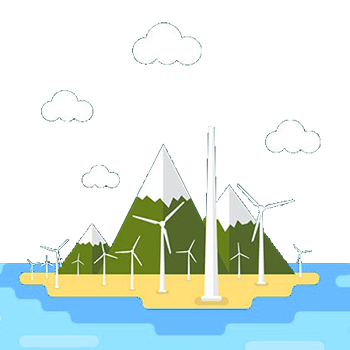
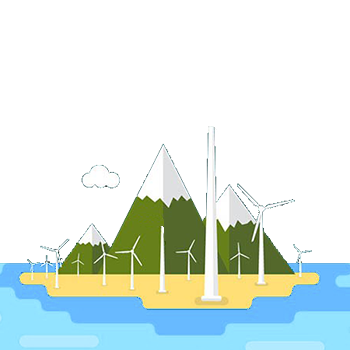
Praise the Sun!

diff --git a/css/main.css b/css/main.css
@@ -452,7 +452,7 @@
 			transform: translate3d(0,1em,0);
 			opacity: 0;
 		}
-
+		
 		100% {
 			-moz-transform: translate3d(0,0,0);
 			-webkit-transform: translate3d(0,0,0);
@@ -509,7 +509,7 @@
 		vertical-align: middle;
 		text-align: left;
 		width: 5.35em;
-		z-index: 1;
+		z-index: 10;
 		}
 
 			#naver li {
@@ -726,9 +726,11 @@
 			display: inline-block;
 			text-align: left;
 			position: relative;
+			z-index: 3;
 		}
 			.article-container p{
 				font-weight: 400;
+				z-index: 3;
 			}
 			.article-container a{
 				border: none;
@@ -764,16 +766,31 @@
 				left: 0px;
 				top: 0px;
 				border-radius:5%;
-				z-index: -10;
+				z-index: 1;
 			}
 			.img-outset{
 				width: 170px;
 				height: 170px;
 				opacity: 0.8;
 				position: absolute;
-				left: 36%;
-				top: 10%;
-				z-index: 10;
+				z-index: 2;
+			}
+			.img-cloud{
+				position: absolute;
+				z-index: 1;
+				opacity: 0.7;
+			}
+			.cloudy{
+				-moz-animation: cloud 10s ease-in-out infinite;
+				-webkit-animation: cloud 10s ease-in-out infinite;
+				-ms-animation: cloud 10s ease-in-out infinite;
+				animation: cloud 10s ease-in-out infinite;
+			}
+			.cloudya{
+				-moz-animation: cloud 8s linear infinite reverse;
+				-webkit-animation: cloud 8s linear infinite reverse;
+				-ms-animation: cloud 8s linear infinite reverse;
+				animation: cloud 8s linear infinite reverse;
 			}
 	.demo-cabinet{
 		padding-top: 3em;
@@ -815,6 +832,97 @@
 			 	opacity: 0.3;
 			 }
 
+	@-moz-keyframes cloud {
+		0% {
+			-moz-transform: translate3d(-1em,0,0);
+			-webkit-transform: translate3d(-1em,0,0);
+			-ms-transform: translate3d(-1em,0,0);
+			transform: translate3d(-1em,0,0);
+		}
+		
+		50% {
+			-moz-transform: translate3d(1em,0,0);
+			-webkit-transform: translate3d(1em,0,0);
+			-ms-transform: translate3d(1em,0,0);
+			transform: translate3d(1em,0,0);
+		}
+		
+		100% {
+			-moz-transform: translate3d(-1em,0,0);
+			-webkit-transform: translate3d(-1em,0,0);
+			-ms-transform: translate3d(-1em,0,0);
+			transform: translate3d(-1em,0,0);
+		}
+	}
+
+	@-webkit-keyframes cloud {
+		0% {
+			-moz-transform: translate3d(-1em,0,0);
+			-webkit-transform: translate3d(-1em,0,0);
+			-ms-transform: translate3d(-1em,0,0);
+			transform: translate3d(-1em,0,0);
+		}
+		
+		50% {
+			-moz-transform: translate3d(1em,0,0);
+			-webkit-transform: translate3d(1em,0,0);
+			-ms-transform: translate3d(1em,0,0);
+			transform: translate3d(1em,0,0);
+		}
+		
+		100% {
+			-moz-transform: translate3d(-1em,0,0);
+			-webkit-transform: translate3d(-1em,0,0);
+			-ms-transform: translate3d(-1em,0,0);
+			transform: translate3d(-1em,0,0);
+		}
+	}
+
+	@-ms-keyframes cloud {
+		0% {
+			-moz-transform: translate3d(-1em,0,0);
+			-webkit-transform: translate3d(-1em,0,0);
+			-ms-transform: translate3d(-1em,0,0);
+			transform: translate3d(-1em,0,0);
+		}
+		
+		50% {
+			-moz-transform: translate3d(1em,0,0);
+			-webkit-transform: translate3d(1em,0,0);
+			-ms-transform: translate3d(1em,0,0);
+			transform: translate3d(1em,0,0);
+		}
+		
+		100% {
+			-moz-transform: translate3d(-1em,0,0);
+			-webkit-transform: translate3d(-1em,0,0);
+			-ms-transform: translate3d(-1em,0,0);
+			transform: translate3d(-1em,0,0);
+		}
+	}
+
+	@keyframes cloud {
+		0% {
+			-moz-transform: translate3d(-1em,0,0);
+			-webkit-transform: translate3d(-1em,0,0);
+			-ms-transform: translate3d(-1em,0,0);
+			transform: translate3d(-1em,0,0);
+		}
+		
+		50% {
+			-moz-transform: translate3d(1em,0,0);
+			-webkit-transform: translate3d(1em,0,0);
+			-ms-transform: translate3d(1em,0,0);
+			transform: translate3d(1em,0,0);
+		}
+		
+		100% {
+			-moz-transform: translate3d(-1em,0,0);
+			-webkit-transform: translate3d(-1em,0,0);
+			-ms-transform: translate3d(-1em,0,0);
+			transform: translate3d(-1em,0,0);
+		}
+	}
 /* Footer */
 
 	#footer {

diff --git a/index.html b/index.html
@@ -20,10 +20,10 @@
 				<nav id="naver">
 					<ul>
 						<li><a id="navhome" class="icon fa-home" title="HOME"></a></li>
-						<li><a id="nava" class="icon fa-abyss" title="Abyss"></a></li>
-						<li><a id="navb" class="icon fa-beacon" title="Beacon"></a></li>
-						<li><a id="navc" class="icon fa-cooperation" title="Cooperation"></a></li>
-						<li><a id="navd" class="icon fa-demo" title="DEMOs"></a></li>
+						<li><a id="nava" class="icon fa-abyss" title="Attr"></a></li>
+						<li><a id="navb" class="icon fa-beacon" title="Brag"></a></li>
+						<li><a id="navc" class="icon fa-cooperation" title="Coop"></a></li>
+						<li><a id="navd" class="icon fa-demo" title="DEMO"></a></li>
 					</ul>
 				</nav>
 				<header id="header">
